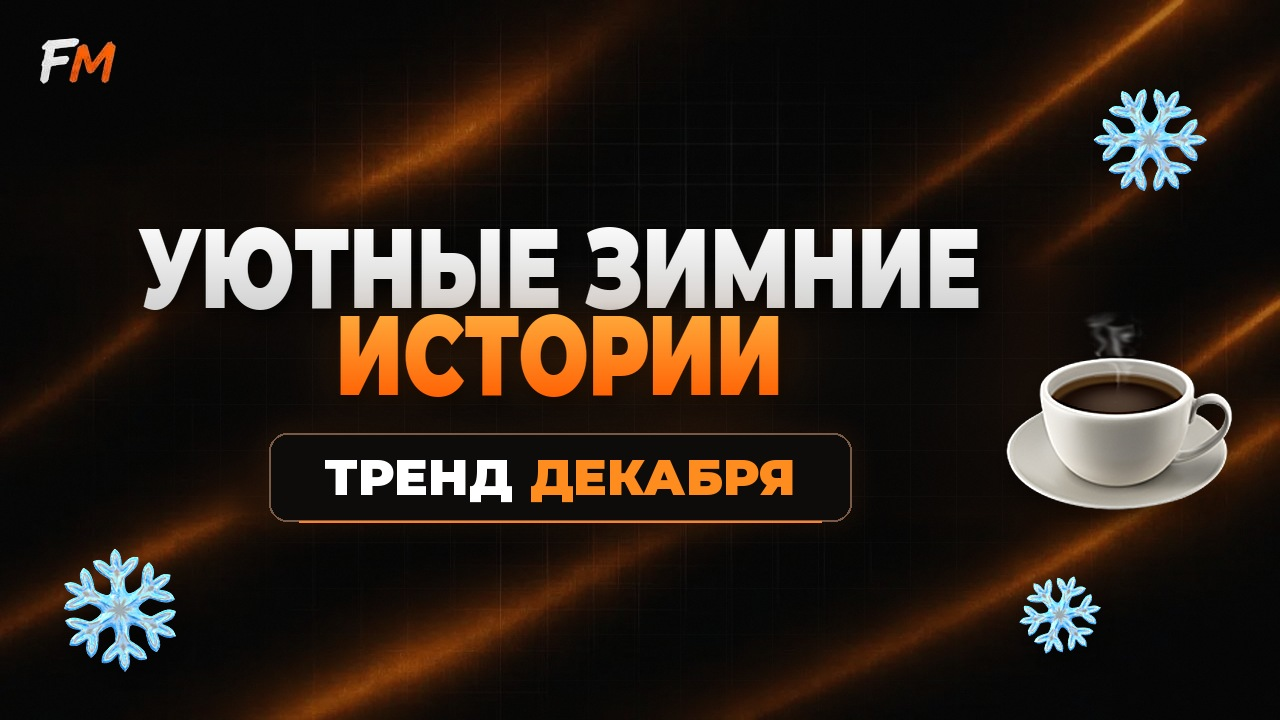
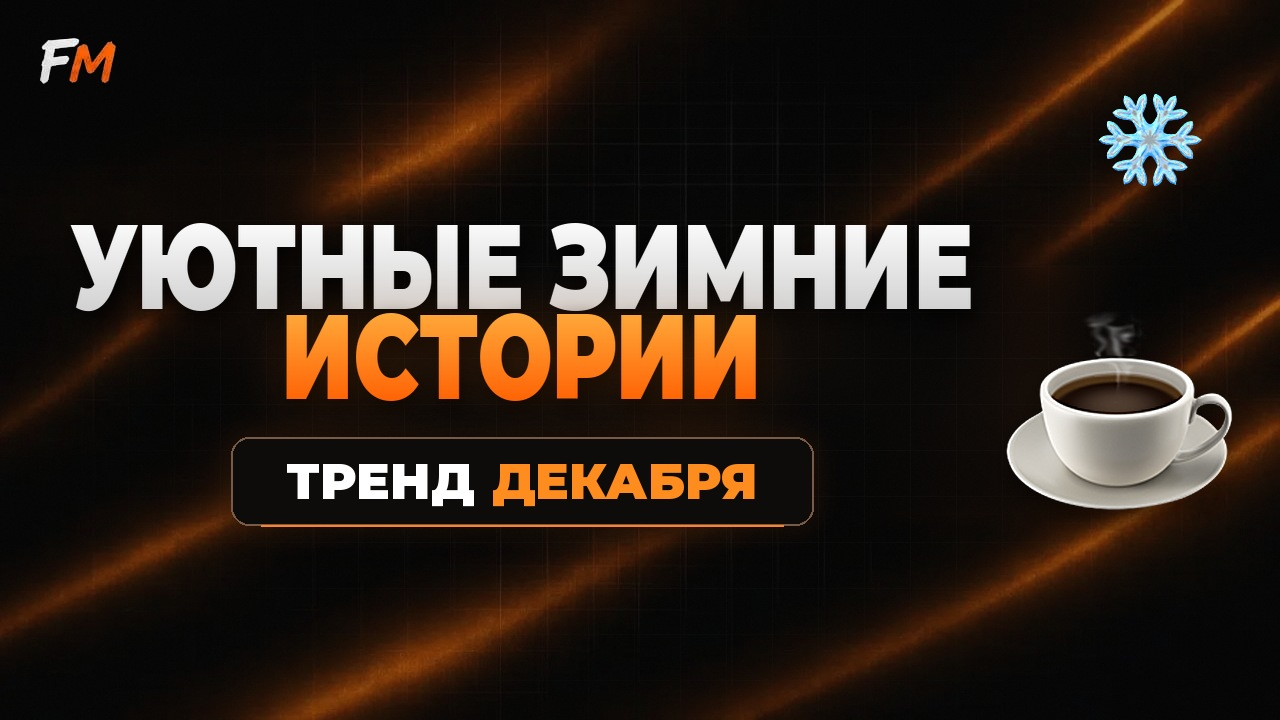
3D-объекты бренда для обложек (кубок, монета F, кнопка YouTube, фигурки, серверы, ручка); обложки строже
Claude-Session: https://claude.ai/code/session_017hf3L4BTdgApmuuhorvyzN

diff --git a/scripts/cover.py b/scripts/cover.py
@@ -11,8 +11,9 @@
       --emoji coffee:1120:420:230 --emoji snowflake:1150:140:110:15 \
       --emoji snowflake:120:610:120:-10 --emoji snowflake:1060:615:80:25
 
---plate: «белая часть |оранжевая часть». --emoji: имя:x:y:размер[:угол], имена — файлы в assets/cover/emoji/
-(эмодзи Apple 64 px; лучше качество — положить PNG крупнее с тем же именем).
+--plate: «белая часть |оранжевая часть». --emoji (или --obj): имя:x:y:высота[:угол]. Сначала ищется 3D-объект
+в assets/cover/objects/ (кубок, монета F, кнопка YouTube…), потом эмодзи Apple в assets/cover/emoji/.
+Строгость: 1 главный предмет, максимум ещё 1 мелкий (знания/обложки.md).
 """
 import argparse
 from pathlib import Path
@@ -53,8 +54,18 @@ def background():
     return Image.blend(bg, ImageChops.add(bg, noise, scale=8), 0.4)
 
 
+def find_item(name):
+    for folder in ('objects', 'emoji'):   # сначала 3D-объекты бренда, потом эмодзи
+        p = A / f'cover/{folder}/{name}.png'
+        if p.exists():
+            return p
+    raise SystemExit(f'Нет предмета {name} в assets/cover/objects/ или assets/cover/emoji/')
+
+
 def emoji(img, name, cx, cy, size, angle=0):
-    e = Image.open(A / f'cover/emoji/{name}.png').convert('RGBA').resize((size, size), Image.LANCZOS)
+    """Предмет (3D-объект или эмодзи): size — высота в пикселях, пропорции сохраняются."""
+    e = Image.open(find_item(name)).convert('RGBA')
+    e = e.resize((max(1, round(e.width * size / e.height)), size), Image.LANCZOS)
     if angle:
         e = e.rotate(angle, Image.BICUBIC, expand=True)
     e = e.filter(ImageFilter.UnsharpMask(2, 60, 2))
@@ -121,8 +132,16 @@ def make(line1, line2, plate_text, objects, out):
     img = background()
     for o in objects:
         emoji(img, *o)
-    side = any(o[1] > 1000 and o[3] >= 180 for o in objects)  # крупный предмет справа → текст левее
-    max_w, cx = (860, 560) if side else (1000, W // 2)
+    # крупный предмет справа → заголовок левее и не заходит на предмет
+    left = W
+    for o in objects:
+        if o[1] > 900 and o[3] >= 180:
+            im = Image.open(find_item(o[0]))
+            left = min(left, o[1] - im.width * o[3] / im.height / 2)
+    if left < W:
+        cx = int((40 + left) / 2); max_w = int(left - 40 - 50)
+    else:
+        max_w, cx = 1000, W // 2
     s = min(fit_size(line1, max_w), fit_size(line2, max_w))
     c1, m1 = text_layer(line1, s, (255, 255, 255), (205, 205, 205))
     c2, m2 = text_layer(line2, s, ORANGE_TOP, ORANGE_BOT)
@@ -149,7 +168,7 @@ if __name__ == '__main__':
     ap.add_argument('--line1', required=True, help='белая строка заголовка')
     ap.add_argument('--line2', required=True, help='оранжевая строка заголовка')
     ap.add_argument('--plate', default='', help='подпись на плашке: «белое |ОРАНЖЕВОЕ»')
-    ap.add_argument('--emoji', action='append', default=[], help='имя:x:y:размер[:угол]')
+    ap.add_argument('--emoji', '--obj', dest='emoji', action='append', default=[], help='имя:x:y:высота[:угол]')
     ap.add_argument('--out', required=True)
     a = ap.parse_args()
     make(a.line1, a.line2, a.plate, [parse_emoji(e) for e in a.emoji], a.out)

diff --git a/scripts/cut_object.py b/scripts/cut_object.py
@@ -1,0 +1,40 @@
+import sys, numpy as np, onnxruntime as ort
+from PIL import Image, ImageDraw
+S = sys.argv[1]
+sess = ort.InferenceSession(f'{S}/rmbg/birefnet.onnx')
+def cut(src, box, out):
+    im = Image.open(f'{S}/covers_src/{src}').convert('RGB')
+    im = im.resize((1280, int(im.height * 1280 / im.width)))
+    c = im.crop(box)
+    x = np.asarray(c.resize((1024, 1024), Image.BILINEAR), dtype=np.float32) / 255
+    x = (x - [0.485, 0.456, 0.406]) / [0.229, 0.224, 0.225]
+    y = sess.run(None, {'input_image': x.transpose(2, 0, 1)[None].astype(np.float32)})[0][0, 0]
+    y = 1 / (1 + np.exp(-y)) if y.min() < 0 or y.max() > 1 else y
+    m = Image.fromarray((np.clip(y, 0, 1) * 255).astype('uint8')).resize(c.size, Image.BILINEAR)
+    c.putalpha(m)
+    bb = m.point(lambda v: 255 if v > 40 else 0).getbbox()
+    c = c.crop(bb) if bb else c
+    c.save(f'{S}/objs/{out}.png'); return c
+import os; os.makedirs(f'{S}/objs', exist_ok=True)
+jobs = {
+ 'coin_f':      ('05.jpg', (1035, 15, 1200, 165)),
+ 'coin_f_2':    ('05.jpg', (145, 400, 295, 535)),
+ 'servers':     ('05.jpg', (1085, 315, 1280, 620)),
+ 'youtube':     ('11.jpg', (975, 245, 1265, 510)),
+ 'youtube_2':   ('06.jpg', (840, 270, 1220, 520)),
+ 'trophy':      ('10.jpg', (930, 120, 1280, 600)),
+ 'trophy_2':    ('09.jpg', (930, 100, 1280, 620)),
+ 'gear':        ('07.jpg', (150, 175, 315, 310)),
+ 'pen':         ('08.jpg', (1000, 400, 1280, 720)),
+ 'coins_rub':   ('04.jpg', (1180, 130, 1280, 280)),
+ 'people':      ('05.jpg', (840, 470, 1160, 720)),
+}
+outs = [(k, cut(*v, k)) for k, v in jobs.items()]
+W = 330; sheet = Image.new('RGB', (W * 4, W * 3), 'white')
+for i, (k, c) in enumerate(outs):
+    t = Image.new('RGB', (W - 10, W - 10)); d = ImageDraw.Draw(t)
+    for yy in range(0, W, 20):
+        for xx in range(0, W, 20): d.rectangle([xx, yy, xx + 19, yy + 19], fill=(200, 200, 200) if (xx + yy) // 20 % 2 else (240, 240, 240))
+    cc = c.copy(); cc.thumbnail((W - 30, W - 40)); t.paste(cc, (10, 25), cc); ImageDraw.Draw(t).text((5, 5), k, fill='red')
+    sheet.paste(t, ((i % 4) * W + 5, (i // 4) * W + 5))
+sheet.save(f'{S}/objs/sheet.jpg')

diff --git a/.claude/skills/посты-телеграм/SKILL.md b/.claude/skills/посты-телеграм/SKILL.md
@@ -31,9 +31,11 @@ description: Пост для Telegram-канала «Forge Media | AI» (Forge V
 
 ## 3. Обложка
 - По `знания/обложки.md` через `scripts/cover.py`: 2 строки заголовка (белая + оранжевая, 1–3 слова),
-  плашка «белое |ОРАНЖЕВОЕ», один крупный эмодзи Apple справа + 2–3 мелких по теме, все чёткие.
+  плашка «белое |ОРАНЖЕВОЕ», один главный предмет справа (+ максимум 1 мелкий). Сначала 3D-объект бренда
+  из `assets/cover/objects/` (кубок, монета F, кнопка YouTube, фигурки…), эмодзи Apple — только если объекта под тему нет.
 - Файл: `посты/<ГГГГ-ММ-ДД>_обложка.jpg`. Посмотреть результат глазами (Read) перед показом.
 - Нужного эмодзи нет в `assets/cover/emoji/` — докачать 160 px (как описано в `знания/обложки.md`).
+- Перегенерировал обложку уже отправленного поста — в бот не дублировать без просьбы Алексея.
 
 ## 4. Самопроверка (каждый пункт — да/нет, в отчёте честно)
 1. **Первая фраза цепляет?** Заголовок + первая строка дают причину читать дальше (цифра, вопрос, боль, тренд).

diff --git a/знания/обложки.md b/знания/обложки.md
@@ -23,6 +23,14 @@
 - Не размывать эмодзи (на маленьких картинках это мутные пятна).
 - Не добавлять яркий неон, новые цвета, другие шрифты и фоны.
 
+## 3D-объекты бренда (основа)
+`assets/cover/objects/` — вырезаны из старых обложек Forge Media (BiRefNet, лицензия MIT; кнопка YouTube — маской по цвету):
+`trophy`, `trophy_2` (кубок с F), `coin_f`, `coin_f_2` (монета с F), `youtube` (3D-кнопка), `people` (фигурки + монета),
+`servers` (серверная стойка), `pen` (ручка). Ставятся так же: `--obj trophy:1110:390:330` (высота в px).
+Заголовок сам сдвигается левее и сужается, чтобы не залезать на предмет справа.
+Новый объект из картинки: `scripts/cut_object.py` (нужна модель BiRefNet_lite ONNX с huggingface, см. код).
+В планах на неделе: новые объекты (Blender), живые обложки (GIF/моушен).
+
 ## Эмодзи
 Лежат в `assets/cover/emoji/` — Apple, 160 px (из репозитория iamcal/emoji-data, папка `img-apple-160`,
 качается через raw.githubusercontent.com). Новое эмодзи: имя файла из `emoji.json` → скачать туда же.
